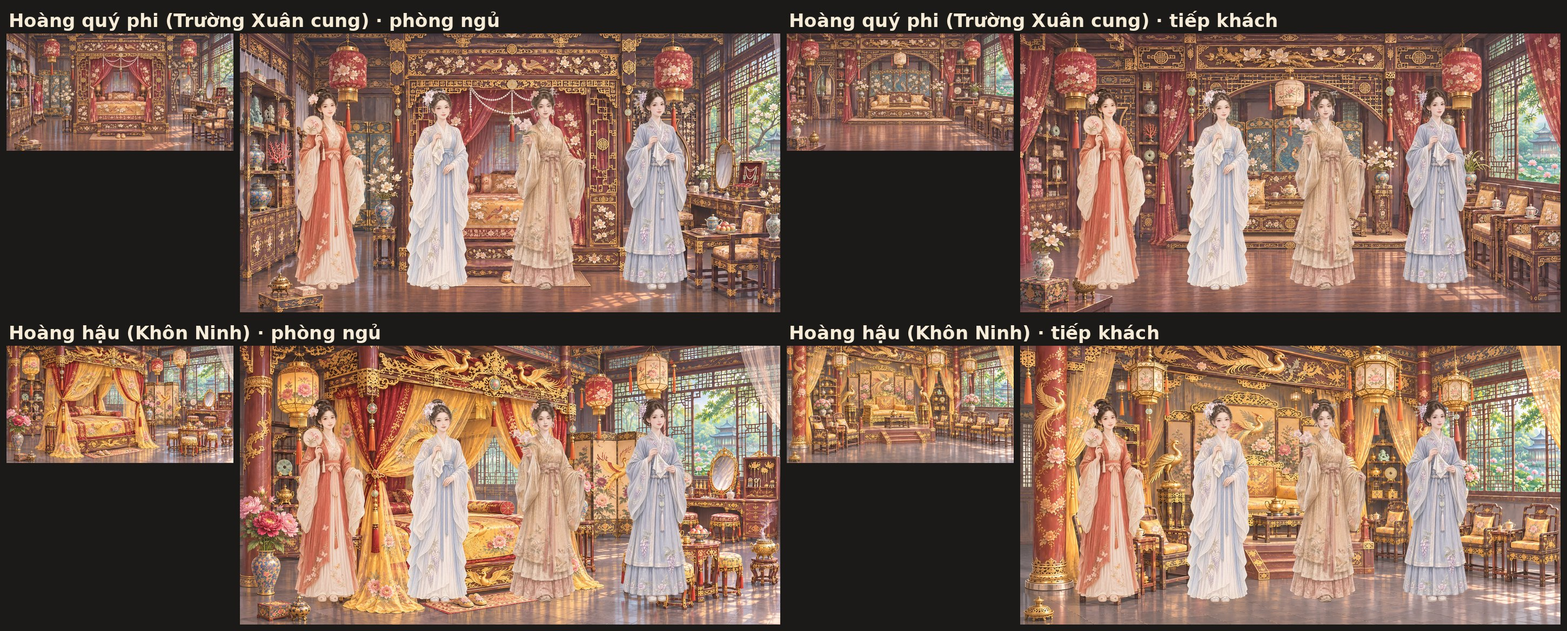
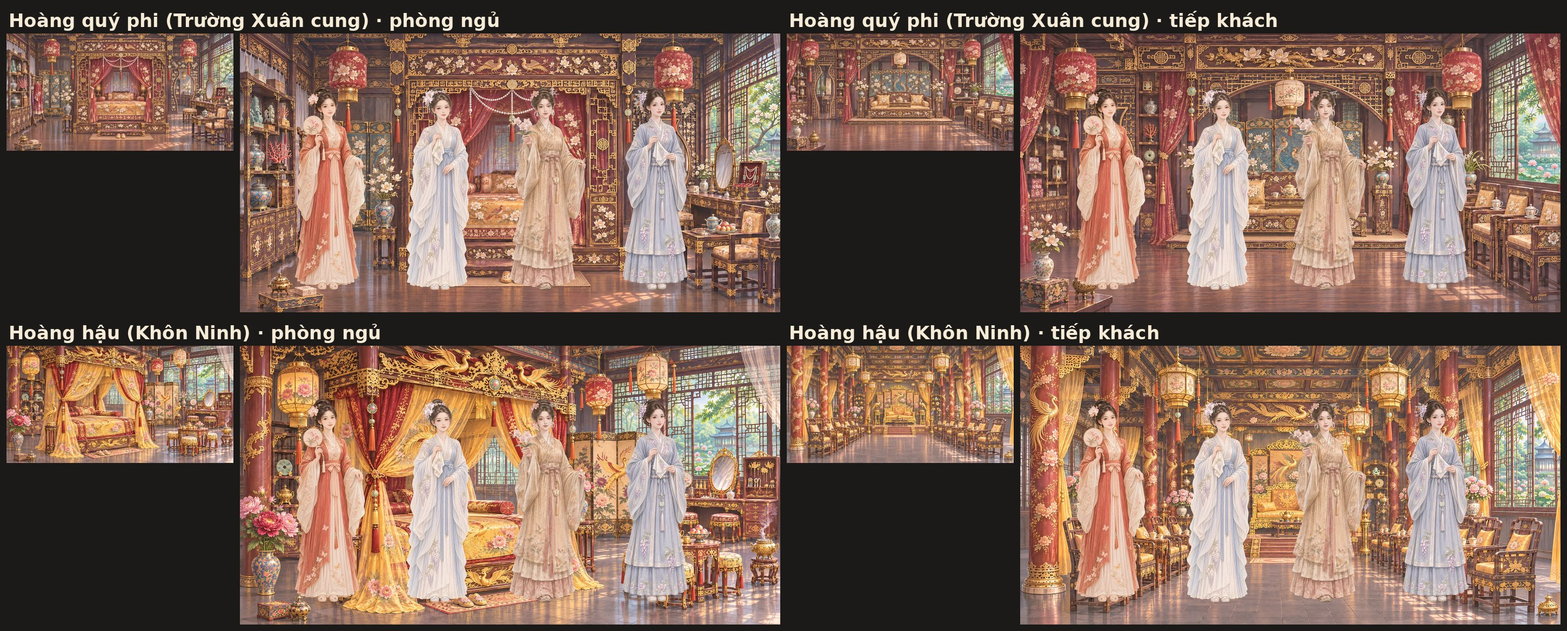
place-rank PR7: Phi bedroom trim + Khôn Ninh grand hall (owner Lượt 563), people singles
Claude-Session: https://claude.ai/code/session_01PEhRbwronSNrACtu2Qiwhx

Changed region(s): [[0.4966, 0.524, 1.0, 1.0]]

diff --git a/dev/art/place-rank/prompts.py b/dev/art/place-rank/prompts.py
@@ -264,3 +264,26 @@ kn = out6['khon-ninh-cung']
 assert KN_MID in kn and 'at most a small mat under the low tables in front of the dais' in kn
 outc = {'khon-ninh-cung': kn.replace(KN_MID, KN_MID6C).replace('at most a small mat under the low tables in front of the dais', 'at most a small mat at the foot of the dais').replace('Keep the same room and the same arrangement as image 3 (this same room as drawn before)', 'Keep the same room and the same arrangement as image 3 (this same room as drawn before), except that the low table and stools in the middle of its floor are removed')}
 json.dump(outc, open(os.path.join(D, 'prompts_v6c.json'), 'w'), ensure_ascii=False, indent=1)
+
+# ---- v6d (owner Lượt 563 via ROOT-50): Phi bedroom v6b aFGyN6afSh "vẫn cứ rộng rộng ở dưới" -> between v6 (too close) and v6b (too much floor):
+# whole bed inside, no crop, bottom empty strip ~8-10 %. image 3 = v6b aFGyN6afSh (own layout). Only the FLOOR SHARE sentence changes.
+FLOOR6D = (" FLOOR SHARE (owner Lượt 520, 548, 563): Keep the same room and the same arrangement as image 3 (this same room as drawn before), seen only "
+           "slightly closer than image 3, so the whole canopy bed with its top and its curtains still fits inside the picture, nothing cropped; the empty "
+           "floor strip at the bottom is clearly smaller than in image 3: the furniture comes down to about eleven twelfths of the picture height, and the "
+           "open floor at the bottom is only about one twelfth of the picture height at the centre.")
+outd = {'canh-phuc-cung-phi-ngu': outb['canh-phuc-cung-phi-ngu'].replace(FLOOR6B, FLOOR6D)}
+assert outd['canh-phuc-cung-phi-ngu'] != outb['canh-phuc-cung-phi-ngu']
+json.dump(outd, open(os.path.join(D, 'prompts_v6d.json'), 'w'), ensure_ascii=False, indent=1)
+
+# ---- v6f (owner Lượt 563 via ROOT-50): Khôn Ninh reception v6c 9ZHIFD7NYZ "nhỏ xíu" -> GRAND large main hall (wide, deep, high ceiling, more columns)
+# + chairs/tables follow the structure: two straight mirrored rows facing each other along the sides, on the central axis to the throne dais.
+knc = outc['khon-ninh-cung']
+A1_ = "ROOM: Khôn Ninh cung reception hall, where the Empress of an ancient Chinese imperial palace receives the consorts, a real room in daily use, no bed anywhere:"
+B1_ = "below the dais, rows of paired Chinese armchairs with small tea tables between them for the visiting consorts;"
+C1_ = "Keep the same room and the same arrangement as image 3 (this same room as drawn before), except that the low table and stools in the middle of its floor are removed, seen a little closer and lower so less floor shows:"
+assert A1_ in knc and B1_ in knc and C1_ in knc
+outf = {'khon-ninh-cung': knc
+  .replace(A1_, A1_ + " a GRAND, very large main hall (owner Lượt 563: never a small room), wide and deep with a high ceiling, many tall red lacquer columns standing in two straight rows along the length of the hall, seen straight on along its central axis;")
+  .replace(B1_, "below the dais, TWO straight rows of Chinese armchairs with small tea tables between them for the visiting consorts (owner Lượt 563), one row along each side of the hall, the two rows facing each other across the open central aisle, mirrored exactly on the central axis that leads to the throne dais, each chair lined up with the columns and square to the walls, nothing placed at random;")
+  .replace(C1_, "Keep the same throne, screen, colours and furnishings as image 3 (this same room as drawn before), but the hall is much larger and grander than in image 3, with the floor numbers here:")}
+json.dump(outf, open(os.path.join(D, 'prompts_v6f.json'), 'w'), ensure_ascii=False, indent=1)

diff --git a/dev/handover/reports/place-rank-sample.md b/dev/handover/reports/place-rank-sample.md
@@ -221,3 +221,9 @@ LAYOUTS (L11/L5): bedroom = back wall + right side wall; a walk-in babu bed cent
 Sheet: dev/handover/review-sheets/place-rank/place-rank-C-hqp-vs-hh.jpg · CDN https://ctm-img.victoria-tntt.workers.dev/img/_review/place-rank/place-rank-C-hqp-vs-hh.jpg
 Round credits (PR7): 17 gens × 135 = 2,295 cr (cap 3,300).
 STATUS: PR7 STOPPED after the HQP sample (A1). Open: HQP reception floor too big (foreman/owner decides on 1 more gen; suggested: same prompt, image 3 = the HQP bedroom s7I0dD0l8e as closeness guide).
+### Owner Lượt 563 + ROOT-50 order change (HQP first) — PR7
+- HQP pair sheet C sent first (above).
+- Phi bedroom: v6d gen lJtTf8Ggv9 REJECTED (floor ~20 %). Then v6e = v6b aFGyN6afSh TRIMMED with PIL (bottom 7 % + 3.5 % each side, resized back to 2688x1386): bottom strip ~10 %, whole bed inside, 0 cr. Originals in v6b/. People: people-canh-phuc-cung-phi-ngu.jpg.
+- Khôn Ninh reception v6f O6EXKHXynm (prompts_v6f.json): her two points only (GRAND large hall with high ceiling + rows of columns; TWO mirrored rows of armchairs + tea tables facing across the central aisle to the throne). v6c kept in v6c/. People: people-khon-ninh-cung.jpg.
+- Owner rule (Lượt 563): every room sent WITH people → single people files img/_review/place-rank/people-<room>.jpg (scratch helper people1.py = sheets.people()). Sheets A/B/C rebuilt.
+Credits PR7 round: 19 gens = 2,565 cr (cap 4,500).
